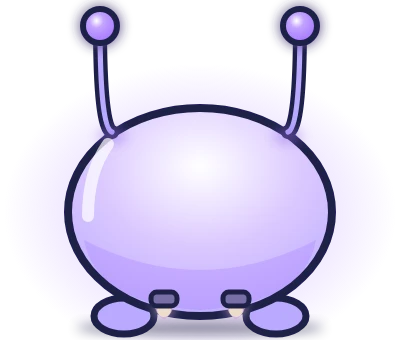
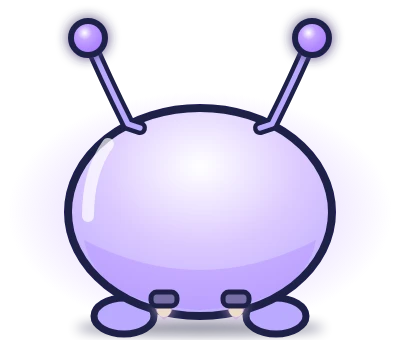
WIP: Nebula space-hopper rider + rival palettes, GTA glow fix + wash v8, MLS round 8, render-svg safe-filter detection
Claude-Session: https://claude.ai/code/session_011bftBeXudnSzAMBxDFXhpR

Changed region(s): [[0.63, 0.0, 0.87, 0.4412], [0.15, 0.0, 0.39, 0.4118]]

diff --git a/game.config.js b/game.config.js
@@ -145,7 +145,12 @@ window.GAME = {
       critter_back_violet: { path: "assets/img/critter_back_violet.webp", res: 2 },
       // race: the keeper robot seen from behind, drawn over the critter (character.raceRider)
       drone_back: { path: "assets/img/drone_back.webp", res: 2 }, drone_front: { path: "assets/img/drone_front.webp", res: 2 }, start_gate: { path: "assets/img/start_gate.webp", res: 2 },   // the Escape pursuer (race.chase)
-      rider_back_aqua: { path: "assets/img/rider_back_aqua.webp", res: 2 }, rider_back_amber: { path: "assets/img/rider_back_amber.webp", res: 2 },
+      rider_back_aqua: { path: "assets/img/rider_back_aqua.webp", res: 2 },
+      rider_rival_1: { path: "assets/img/rider_rival_1.webp", res: 2 },
+      rider_rival_2: { path: "assets/img/rider_rival_2.webp", res: 2 },
+      rider_rival_3: { path: "assets/img/rider_rival_3.webp", res: 2 },
+      rider_rival_4: { path: "assets/img/rider_rival_4.webp", res: 2 },
+      rider_rival_5: { path: "assets/img/rider_rival_5.webp", res: 2 }, rider_back_amber: { path: "assets/img/rider_back_amber.webp", res: 2 },
       dust: "assets/img/dust.webp", dust_b: "assets/img/dust_b.webp", cloth: "assets/img/cloth.webp",
       want_dust: { path: "assets/img/want_dust.webp", res: 2 },
       // per-variant close-up backdrops (+ the happy "after" version revealed when clean)
@@ -319,8 +324,7 @@ window.GAME = {
       { sprite: "asteroid", every: 46, phase: 18, scale: 3.2, hw: 0.3, spread: 0.45 },
     ],
     // a REAL race: 5 rival riders to overtake (you start last), ranking, results with a reward per place.
-    // Rival robots reuse the keeper rear view, recoloured (riderTint) in a hue that contrasts with their mount,
-    // never white/cyan (the player's own look).
+    // Rival robots: the keeper's rear view in their own accent colour (rider_rival_N, pre-rendered palettes).
     horizon: 0.42,                           // tall phones: more road, less empty sky
     // CHASE variant ("Escape"): a security drone starts behind and closes in; obstacles slow you, it catches up
     chase: {
@@ -337,11 +341,11 @@ window.GAME = {
     },
     rivals: {
       list: [
-        { name: "Zip", sprite: "critter_back_rose", rider: "rider_back_aqua", riderTint: "#8fe36a", color: "#8fe36a" },
-        { name: "Nova", sprite: "critter_back_lime", rider: "rider_back_amber", riderTint: "#ff86c4", color: "#ff86c4" },
-        { name: "Pixel", sprite: "critter_back_violet", rider: "rider_back_amber", riderTint: "#ffc94a", color: "#ffc94a" },
-        { name: "Comet", sprite: "critter_back_amber", rider: "rider_back_aqua", riderTint: "#a98bff", color: "#a98bff" },
-        { name: "Orbit", sprite: "critter_back_aqua", rider: "rider_back_amber", riderTint: "#ff8a66", color: "#ff8a66" },
+        { name: "Zip", sprite: "critter_back_rose", rider: "rider_rival_1", color: "#ff8a3d" },
+        { name: "Nova", sprite: "critter_back_lime", rider: "rider_rival_2", color: "#5fd36a" },
+        { name: "Pixel", sprite: "critter_back_violet", rider: "rider_rival_3", color: "#a06bff" },
+        { name: "Comet", sprite: "critter_back_amber", rider: "rider_rival_4", color: "#ff5db1" },
+        { name: "Orbit", sprite: "critter_back_aqua", rider: "rider_rival_5", color: "#ffd24a" },
       ],
       scale: 6.5, hw: 0.3, skill: [0.82, 0.97], gridGap: 3, gridFirst: 5, startGate: "start_gate", startGateScale: 17, lanes: [-0.62, 0.62],
       rewards: [40, 25, 15, 8, 5, 3],

diff --git a/.claude/skills/visual-review/references/adversarial-review.md b/.claude/skills/visual-review/references/adversarial-review.md
@@ -20,6 +20,12 @@ Small recolours / pure position tweaks don't need it.
 4. Send the kept fixes to the art agent, re-render, and run a NEW reviewer
    (fresh eyes again) until the verdict is ≥ 8/10 with no "reads wrong at game size" issue,
    or two rounds bring nothing new.
+   **Not converging?** If 3 rounds stay below 7/10 (scores oscillate, reviewers contradict each other's
+   coordinates), STOP patching numbers: re-brief the artist around ONE concrete real-world reference that
+   matches the situation (e.g. "a kid on a space hopper, from behind" for a robot riding a ball, "a jockey from
+   behind" for a horse rider) and redesign the pose from it; then review again from scratch.
+   Pass each reviewer the CURRENT in-game screenshots (re-shoot after every art change): a stale screenshot
+   once produced a false "start line" blocker.
 5. Only then show the owner, with a one-line summary of what the review caught.
    Big scope changes the review suggests (new engine feature, new art layers) — tell the owner
    in one line and proceed unless it reverses one of their decisions.
